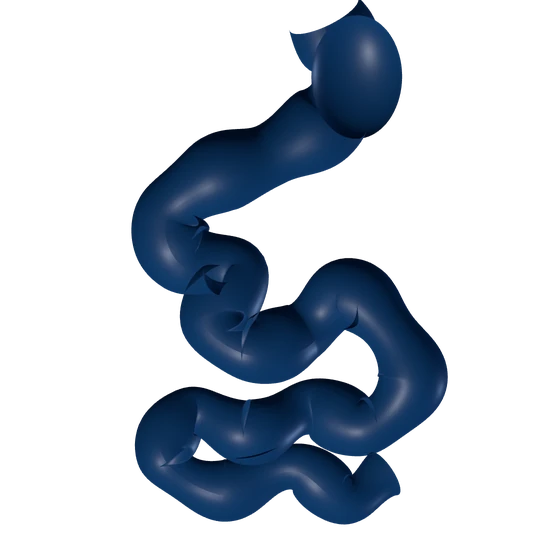
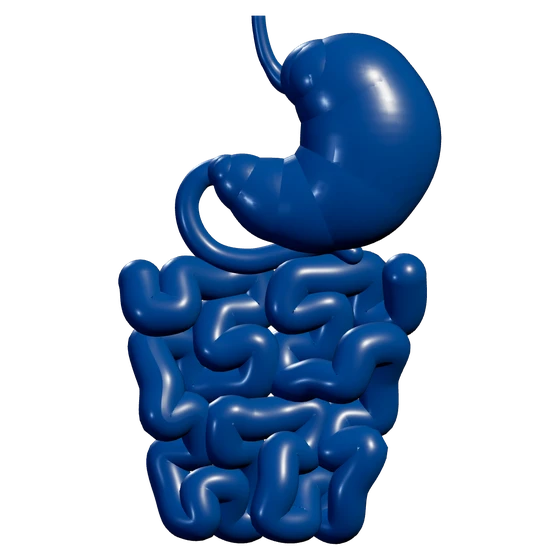
Intestine rebuilt from reference: sphere-chain stomach, Hilbert-folded bowel mass

diff --git a/tools/intestine/render.html b/tools/intestine/render.html
@@ -2,42 +2,112 @@
 <script type="importmap">{"imports":{"three":"https://cdn.jsdelivr.net/npm/three@0.160.0/build/three.module.js"}}</script></head>
 <body><script type="module">
 import * as THREE from 'three';
-// Reference: small intestine (stomach, duodenum loop, jejunum/ileum coils) from small_intestine_2.jpg.
-// Procedural tube along a control path; radius varies with the bowel's folds; deep blue material.
-const W=1120,H=1120;
-const renderer=new THREE.WebGLRenderer({antialias:true,alpha:true,preserveDrawingBuffer:true});
-renderer.setSize(W,H);renderer.setClearColor(0x000000,0);document.body.appendChild(renderer.domElement);
-const scene=new THREE.Scene();
-const cam=new THREE.PerspectiveCamera(30,1,0.1,100);cam.position.set(0,0.2,9.5);cam.lookAt(0,-0.1,0);
-scene.add(new THREE.HemisphereLight(0xdfeaff,0x061a33,1.4));
-const key=new THREE.DirectionalLight(0xffffff,1.6);key.position.set(3,4,6);scene.add(key);
-const rim=new THREE.DirectionalLight(0x9fc7ff,0.7);rim.position.set(-4,1,-3);scene.add(rim);
-// Deep blue material (same family as the organ art)
-const mat=new THREE.MeshStandardMaterial({color:0x0d3f6e,roughness:0.42,metalness:0.05,emissive:0x021a33,emissiveIntensity:0.25});
-// Path: stomach (top, pouch) -> duodenum loop -> jejunum/ileum coils (lower, loops)
-const pts=[
- [0.6,3.4,0],[0.9,2.7,0.1],[0.7,2.0,0.2],[-0.1,1.5,0.1],[-0.9,1.2,0.0],[-1.5,0.7,0.2],[-1.3,0.1,0.3],
- [-0.6,-0.1,0.3],[-0.9,-0.8,0.1],[-0.4,-1.2,0.0],[0.3,-0.9,0.4],[0.9,-0.4,0.3],[1.5,-0.9,0.1],[1.8,-1.6,0.2],
- [1.2,-2.2,0.3],[0.4,-1.9,0.6],[-0.4,-2.3,0.2],[-1.2,-2.0,0.3],[-1.6,-2.7,0.0],[-0.8,-3.1,0.2],[0.2,-2.8,0.1],[0.9,-3.2,0.3],[1.4,-2.8,0.5]
+// img2threejs reconstruction of D:\Downloads\small_intestine_2.jpg (1200 x 1200 reference).
+// Components: esophagus + J-shaped stomach + pylorus + duodenal C-loop (one swept tube with a radius
+// profile), and the jejunum/ileum mass (two layers of packed serpentine loops). Layout is traced in
+// reference pixel space and mapped to scene units; deep blue wet material to match the SHARE organ art.
+const W = 1120, H = 1120, SPAN = 2.5;
+const px = (x, y, z = 0) => new THREE.Vector3((x - 600) / 600 * SPAN, (600 - y) / 600 * SPAN, z);
+const pr = (r) => r / 600 * SPAN;
+
+const renderer = new THREE.WebGLRenderer({ antialias: true, alpha: true, preserveDrawingBuffer: true });
+renderer.setSize(W, H); renderer.setClearColor(0x000000, 0);
+renderer.toneMapping = THREE.ACESFilmicToneMapping; renderer.toneMappingExposure = 1.05;
+document.body.appendChild(renderer.domElement);
+const scene = new THREE.Scene();
+const cam = new THREE.OrthographicCamera(-SPAN, SPAN, SPAN, -SPAN, 0.1, 50); cam.position.set(0, 0, 10); cam.lookAt(0, 0, 0);
+scene.add(new THREE.HemisphereLight(0xcfe3ff, 0x020c1c, 1.1));
+const key = new THREE.DirectionalLight(0xffffff, 2.2); key.position.set(3.5, 4.5, 6); scene.add(key);
+const fill = new THREE.DirectionalLight(0x8fb8ff, 0.6); fill.position.set(-5, -1, 4); scene.add(fill);
+const rim = new THREE.DirectionalLight(0xb9d4ff, 0.9); rim.position.set(-2, 3, -5); scene.add(rim);
+
+const mat = new THREE.MeshPhysicalMaterial({ color: 0x1b4f86, roughness: 0.38, metalness: 0.0, clearcoat: 0.9, clearcoatRoughness: 0.22, sheen: 0.3, sheenColor: new THREE.Color(0x6fa0d8) });
+
+// Deterministic surface ripple (no Math.random): wrinkles along the bowel wall.
+const ripple = (v) => Math.sin(v.x * 9.1 + v.y * 3.7) * Math.sin(v.y * 8.3 - v.z * 5.1) * Math.sin(v.z * 6.7 + v.x * 4.3);
+
+// Sweep a tube through control points with a per-point radius. The tube is built at radius 1, then each
+// ring is scaled about its own centre, which keeps three.js's ring order and winding intact.
+function sweep(points, radii, segments, radial = 32, rippleAmp = 0.012) {
+  const curve = new THREE.CatmullRomCurve3(points, false, 'centripetal');
+  const geo = new THREE.TubeGeometry(curve, segments, 1, radial, false);
+  const pos = geo.attributes.position, n = points.length - 1, v = new THREE.Vector3(), c = new THREE.Vector3();
+  for (let i = 0; i <= segments; i++) {
+    const u = i / segments, t = curve.getUtoTmapping(u);
+    const f = t * n, k = Math.min(n - 1, Math.floor(f)), s = f - k, sm = s * s * (3 - 2 * s);
+    const r = radii[k] + (radii[k + 1] - radii[k]) * sm;
+    curve.getPointAt(u, c);
+    for (let j = 0; j <= radial; j++) {
+      const idx = i * (radial + 1) + j;
+      v.fromBufferAttribute(pos, idx).sub(c);
+      const dir = v.clone().normalize();
+      const rr = r * (1 + rippleAmp * ripple(c.clone().addScaledVector(dir, r)) / Math.max(r, 0.05) * 0.6);
+      v.copy(c).addScaledVector(dir, rr);
+      pos.setXYZ(idx, v.x, v.y, v.z);
+    }
+  }
+  geo.computeVertexNormals();
+  const mesh = new THREE.Mesh(geo, mat);
+  scene.add(mesh);
+  // Rounded caps so open tube ends never show a hole.
+  [0, 1].forEach((end) => {
+    const p = curve.getPointAt(end), r = radii[end ? radii.length - 1 : 0];
+    const cap = new THREE.Mesh(new THREE.SphereGeometry(r, radial, Math.max(8, radial / 2)), mat);
+    cap.position.copy(p); scene.add(cap);
+  });
+  return mesh;
+}
+
+// 1. Esophagus -> stomach (fundus, body, antrum) -> pylorus -> duodenal C-loop. [x, y, radius] in ref px.
+const upper = [
+  [548, -60, 14], [552, 30, 15], [572, 100, 17], [612, 142, 26],
+  [688, 132, 82], [762, 176, 132], [788, 262, 150], [758, 344, 138], [684, 392, 112],
+  [596, 394, 90], [526, 360, 64], [486, 336, 40], [462, 330, 28],
+  [424, 346, 25], [398, 396, 25], [408, 456, 26], [452, 506, 27], [532, 522, 27], [624, 500, 26], [706, 482, 25], [748, 506, 24],
 ];
-const K=0.66;const curve=new THREE.CatmullRomCurve3(pts.map(p=>new THREE.Vector3(p[0]*K,p[1]*K+0.05,p[2]*K)),false,"catmullrom",0.5);
-// Radius: stomach and duodenum wider, coils thinner, with haustral bulges
-function radius(t){const base=0.34-0.12*t;const fold=0.04*Math.sin(t*Math.PI*26);return base+fold;}
-const geo=new THREE.TubeGeometry(curve,700,1,40,false);
-const pos=geo.attributes.position;const n=geo.parameters.radialSegments;
-const frames=curve.computeFrenetFrames(700,false);
-for(let i=0;i<=700;i++){
-  const t=i/700;const c=curve.getPointAt(t);const r=radius(t)*1.0;
-  for(let j=0;j<=n;j++){
-    const idx=i*(n+1)+j;const N=frames.normals[i],B=frames.binormals[i];
-    const a=2*Math.PI*j/n;
-    pos.setXYZ(idx,c.x+r*(Math.cos(a)*N.x+Math.sin(a)*B.x),c.y+r*(Math.cos(a)*N.y+Math.sin(a)*B.y),c.z+r*(Math.cos(a)*N.z+Math.sin(a)*B.z));
+// Esophagus and duodenum are thin tubes; the stomach sack is a chain of overlapping spheres, because its
+// lesser curvature bends tighter than its own radius and a swept tube would pinch there.
+const P = (i) => px(upper[i][0], upper[i][1], i > 3 && i < 12 ? 0.15 : 0.05), R = (i) => pr(upper[i][2]);
+const idx = (a, b) => Array.from({ length: b - a + 1 }, (_, k) => a + k);
+sweep(idx(0, 4).map(P), idx(0, 4).map(R), 160, 28, 0.004);
+sweep(idx(11, 20).map(P), idx(11, 20).map(R), 400, 28, 0.01);
+{
+  const ids = idx(3, 12), curve = new THREE.CatmullRomCurve3(ids.map(P), false, 'centripetal');
+  const N = 260, sg = new THREE.SphereGeometry(1, 48, 32);
+  for (let i = 0; i <= N; i++) {
+    const u = i / N, f = curve.getUtoTmapping(u) * (ids.length - 1), k = Math.min(ids.length - 2, Math.floor(f)), s = f - k;
+    const r = R(ids[k]) + (R(ids[k + 1]) - R(ids[k])) * s * s * (3 - 2 * s);
+    const m = new THREE.Mesh(sg, mat); m.position.copy(curve.getPointAt(u)); m.scale.set(r, r, r * 0.8); scene.add(m);
   }
 }
-geo.computeVertexNormals();
-scene.add(new THREE.Mesh(geo,mat));
-// Stomach pouch: a soft ellipsoid at the top
-const pouch=new THREE.Mesh(new THREE.SphereGeometry(0.62*K,64,48),mat);pouch.scale.set(1.0,1.35,0.8);pouch.position.set(1.05*K,2.55*K+0.05,0);scene.add(pouch);
-renderer.render(scene,cam);
-window.__done=true;
+
+// 2. Jejunum/ileum: a Hilbert curve (order 3, 8 x 8 cells) mapped into the reference's trapezoid mass and
+//    smoothed. It folds both vertically and horizontally like the real loops, instead of even stripes.
+function hilbert(n) {
+  const out = [];
+  for (let d = 0; d < n * n; d++) {
+    let x = 0, y = 0, t = d;
+    for (let s = 1; s < n; s *= 2) {
+      const rx = 1 & (t / 2), ry = 1 & (t ^ rx);
+      if (ry === 0) { if (rx === 1) { x = s - 1 - x; y = s - 1 - y; } [x, y] = [y, x]; }
+      x += s * rx; y += s * ry; t = Math.floor(t / 4);
+    }
+    out.push([x, y]);
+  }
+  return out;
+}
+const top = 520, bot = 1110, left = (y) => 250 + (y - top) * 0.2, right = (y) => 920 - (y - top) * 0.3;
+const cells = hilbert(8), bp = [], br = [];
+cells.forEach(([cx, cy], i) => {
+  const v = (cy + 0.5) / 8, y = top + v * (bot - top);
+  const L = left(y), Rr = right(y), x = L + ((cx + 0.5) / 8) * (Rr - L);
+  // small deterministic jitter so rows do not read as a grid
+  const jx = 9 * Math.sin(i * 2.17), jy = 8 * Math.cos(i * 1.63);
+  bp.push(px(x + jx, y + jy, 0.18 * Math.sin(i * 0.9) + 0.12 * Math.cos(i * 0.37)));
+  br.push(pr(47 - v * 5) * (1 + 0.07 * Math.sin(i * 1.3)));
+});
+sweep(bp, br, cells.length * 14, 30, 0.016);
+
+renderer.render(scene, cam);
+window.__done = true;
 </script></body></html>

diff --git a/index.html b/index.html
@@ -161,7 +161,7 @@ Will not proceed with BD yet.</pre>
             <li class="o-liver" data-organ data-lives="1"><img src="assets/art/liver.webp" width="560" height="560" alt="" loading="lazy" /><b>Liver</b><span>liver failure, cirrhosis</span></li>
             <li class="o-pancreas" data-organ data-lives="1"><img src="assets/art/pancreas.webp" width="320" height="320" alt="" loading="lazy" /><b>Pancreas</b><span>type 1 diabetes</span></li>
             <li class="o-kidneys" data-organ data-lives="2"><img src="assets/art/kidneys.webp" width="560" height="560" alt="" loading="lazy" /><b>2 kidneys</b><span>off dialysis</span></li>
-            <li class="o-intestine" data-organ data-lives="1"><img src="assets/art/intestine.webp" width="320" height="320" alt="" loading="lazy" /><b>Intestine</b><span>intestinal failure</span></li>
+            <li class="o-intestine" data-organ data-lives="1"><img src="assets/art/intestine.webp?v=3" width="320" height="320" alt="" loading="lazy" /><b>Intestine</b><span>intestinal failure</span></li>
             <li class="o-skin" data-organ data-kind="tissue"><img src="assets/art/skin.webp" width="320" height="320" alt="" loading="lazy" /><b>Skin</b><span>burn care</span></li>
             <li class="o-bones" data-organ data-kind="tissue"><img src="assets/art/bones.webp" width="320" height="320" alt="" loading="lazy" /><b>Bone and valves</b><span>repair and surgery</span></li>
           </ol>
